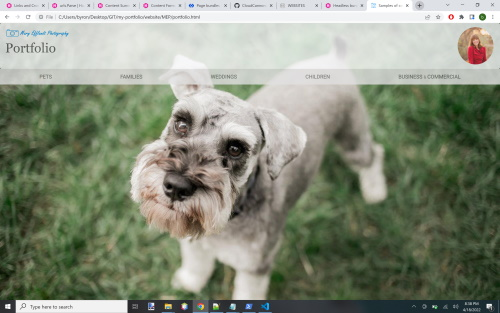
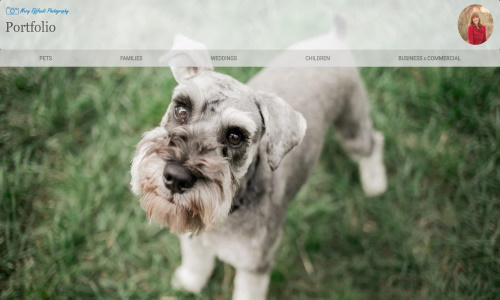
Updated content:   -added more c# (md's and project images)   -updated websites images and .md's accordingly
spent way too long trying to figure out how to draw images from folder, can't be done in a branch apparently...

diff --git a/website/portfolio-site/themes/initio/assets/css/styles.css b/website/portfolio-site/themes/initio/assets/css/styles.css
@@ -258,8 +258,8 @@ a:hover {
 /********************************************************** for main circle image */
 #head img {
   display: block;
-  width: 200px;
-  height: 200px;
+  width: 170px;
+  height: 170px;
   overflow: hidden;
   border: 8px solid rgba(95, 95, 97, 0.35);
   margin: 0 auto;

diff --git a/website/portfolio-site/themes/initio/layouts/_default/list.html b/website/portfolio-site/themes/initio/layouts/_default/list.html
@@ -19,7 +19,7 @@
 				
 				<!-- img/desc -->
 				<div class="flex-items">  
-					<img class="content-image shadow" src="{{ .Params.image }}">
+					<img class="content-image shadow" src="{{ .Params.image }}">  
 					<div class="entry-content-new" >
 						{{ .Content }}
 					</div>

diff --git a/website/portfolio-site/content/home/subheader.md b/website/portfolio-site/content/home/subheader.md
@@ -3,4 +3,7 @@ type = "subheader"
 title = ""
 +++
 
-Let me tell you something my friend. hope is a dangerous thing. hope can drive a man insane. you [measure](/about) yourself by the people who measure themselves by you. it only took me [six days](/sidebar-right).
+Welcome to my Application Developer Portfolio. Here you will find a collection of projects that I've created, ranging from acadamia to free-time projects.  My passion is gringding down UI and code until it is all clean, good looking, and efficient as possible.
+
+<!-- 
+Let me tell you something my friend. hope is a dangerous thing. hope can drive a man insane. you [measure](/about) yourself by the people who measure themselves by you. it only took me [six days](/sidebar-right). -->

diff --git a/website/portfolio-site/content/home/projects/c_sharp/slots.md b/website/portfolio-site/content/home/projects/c_sharp/slots.md
@@ -3,11 +3,11 @@ title = "Slot machine Simulater"
 image = "sm_start.jpg"
 weight = "2"
 
-code_url = "https://github.com/byron42/my-portfolio/blob/master/website/MEP/index.html"
-repo_url = "https://github.com/byron42/my-portfolio/tree/master/website/MEP"
+code_url = "https://github.com/byron42/my-portfolio/blob/master/c%23/slot-machine/Slot%20Machine%20Simulation/Form1.cs"
+repo_url = "https://github.com/byron42/my-portfolio/tree/master/c%23/slot-machine"
 
 [[resources]]
--src = "/sm_start.jpg"
+# -src = "sm_start.jpg"
 +++
 <!-- 
 * this is something else trying to figure all of this out

diff --git a/website/portfolio-site/content/home/projects/c_sharp/rps.md b/website/portfolio-site/content/home/projects/c_sharp/rps.md
@@ -3,11 +3,11 @@ title = "Rock, Paper, Scissors"
 image = "rps.jpg"
 weight = "1"
 
-code_url = "https://github.com/byron42/my-portfolio/blob/master/website/MEP/index.html"
-repo_url = "https://github.com/byron42/my-portfolio/tree/master/website/MEP"
+code_url = "https://github.com/byron42/my-portfolio/blob/master/c%23/rock-paper-scissor/Rock%2C%20Paper%2C%20Scissors/Form1.cs"
+repo_url = "https://github.com/byron42/my-portfolio/tree/master/c%23/rock-paper-scissor"
 
 [[resources]]
--src = "/rps.jpg"
+src = "rps.jpg"
 +++
 <!-- 
 * this is something else trying to figure all of this out

diff --git a/website/portfolio-site/content/home/projects/c_sharp/wordCount.md b/website/portfolio-site/content/home/projects/c_sharp/wordCount.md
@@ -1,0 +1,16 @@
++++
+title = "Word Counter & Average Letter"
+image = "wc.jpg"
+weight = "4"
+
+code_url = "https://github.com/byron42/my-portfolio/blob/master/c%23/word-counter/Word%20Counter%20and%20Average%20Letters%20per%20Word/Form1.cs"
+repo_url = "https://github.com/byron42/my-portfolio/tree/master/c%23/word-counter"
+
+[[resources]]
+src = "WC.jpg"
++++
+<!-- 
+* this is something else trying to figure all of this out
+* some days I enjoy, others are awful
+* eventually I'll end up happy with what I'm doing
+* until then I'll keep trying to get better -->

diff --git a/website/portfolio-site/content/home/projects/c_sharp/teamLead.md b/website/portfolio-site/content/home/projects/c_sharp/teamLead.md
@@ -1,0 +1,16 @@
++++
+title = "Team Leader (OOP)"
+image = "tl.jpg"
+weight = "3"
+
+code_url = "https://github.com/byron42/my-portfolio/blob/master/c%23/team-leader-oop/Team%20Leader/Form1.cs"
+repo_url = "https://github.com/byron42/my-portfolio/tree/master/c%23/team-leader-oop"
+
+[[resources]]
+src = "tl.jpg"
++++
+<!-- 
+* this is something else trying to figure all of this out
+* some days I enjoy, others are awful
+* eventually I'll end up happy with what I'm doing
+* until then I'll keep trying to get better -->

diff --git a/website/portfolio-site/content/home/projects/websites/portfolio.md b/website/portfolio-site/content/home/projects/websites/portfolio.md
@@ -1,6 +1,6 @@
 +++
 title = "Portfolio Site"
-image = "mep.jpg"
+image = "portfolio.jpg"
 # header_image = "images/mep.jpg"
 weight = "2"
 
@@ -8,7 +8,7 @@ code_url = "https://github.com/byron42/my-portfolio/blob/master/website/portfoli
 repo_url = "https://github.com/byron42/my-portfolio/tree/master/website/portfolio-site"
 
 [[resources]]
--src = "/mep.jpg"
+ src = "portfolio.jpg"
 
 +++
 <!-- ![Image alt](mep.jpg) -->

diff --git a/website/portfolio-site/content/home/projects/websites/mep.md b/website/portfolio-site/content/home/projects/websites/mep.md
@@ -1,14 +1,13 @@
 +++
 title = "Mary Efflandt Photography"
 image = "mep.jpg"
-# header_image = "images/mep.jpg"
 weight = "1"
 
 code_url = "https://github.com/byron42/my-portfolio/blob/master/website/MEP/index.html"
 repo_url = "https://github.com/byron42/my-portfolio/tree/master/website/MEP"
 
 [[resources]]
--src = "/mep.jpg"
+ src = "mep.jpg"
 +++
 
 * this is something else trying to figure all of this out

diff --git a/website/portfolio-site/content/home/projects/c_sharp/_index.md b/website/portfolio-site/content/home/projects/c_sharp/_index.md
@@ -1,5 +1,14 @@
 +++
 title = "C# (winforms)"
 type = "C# (winforms)"
-weight = "4"
+# weight = "4"
+
+# [[resources]]
+#   src = 'images/rps.jpg'
+# [[resources]]
+#    src = "images/sm_start.jpg"
+# [[resources]]
+#   src = "images/tl.jpg"
+# [[resources]]
+#   src = "images/wc.jpg"
 +++
